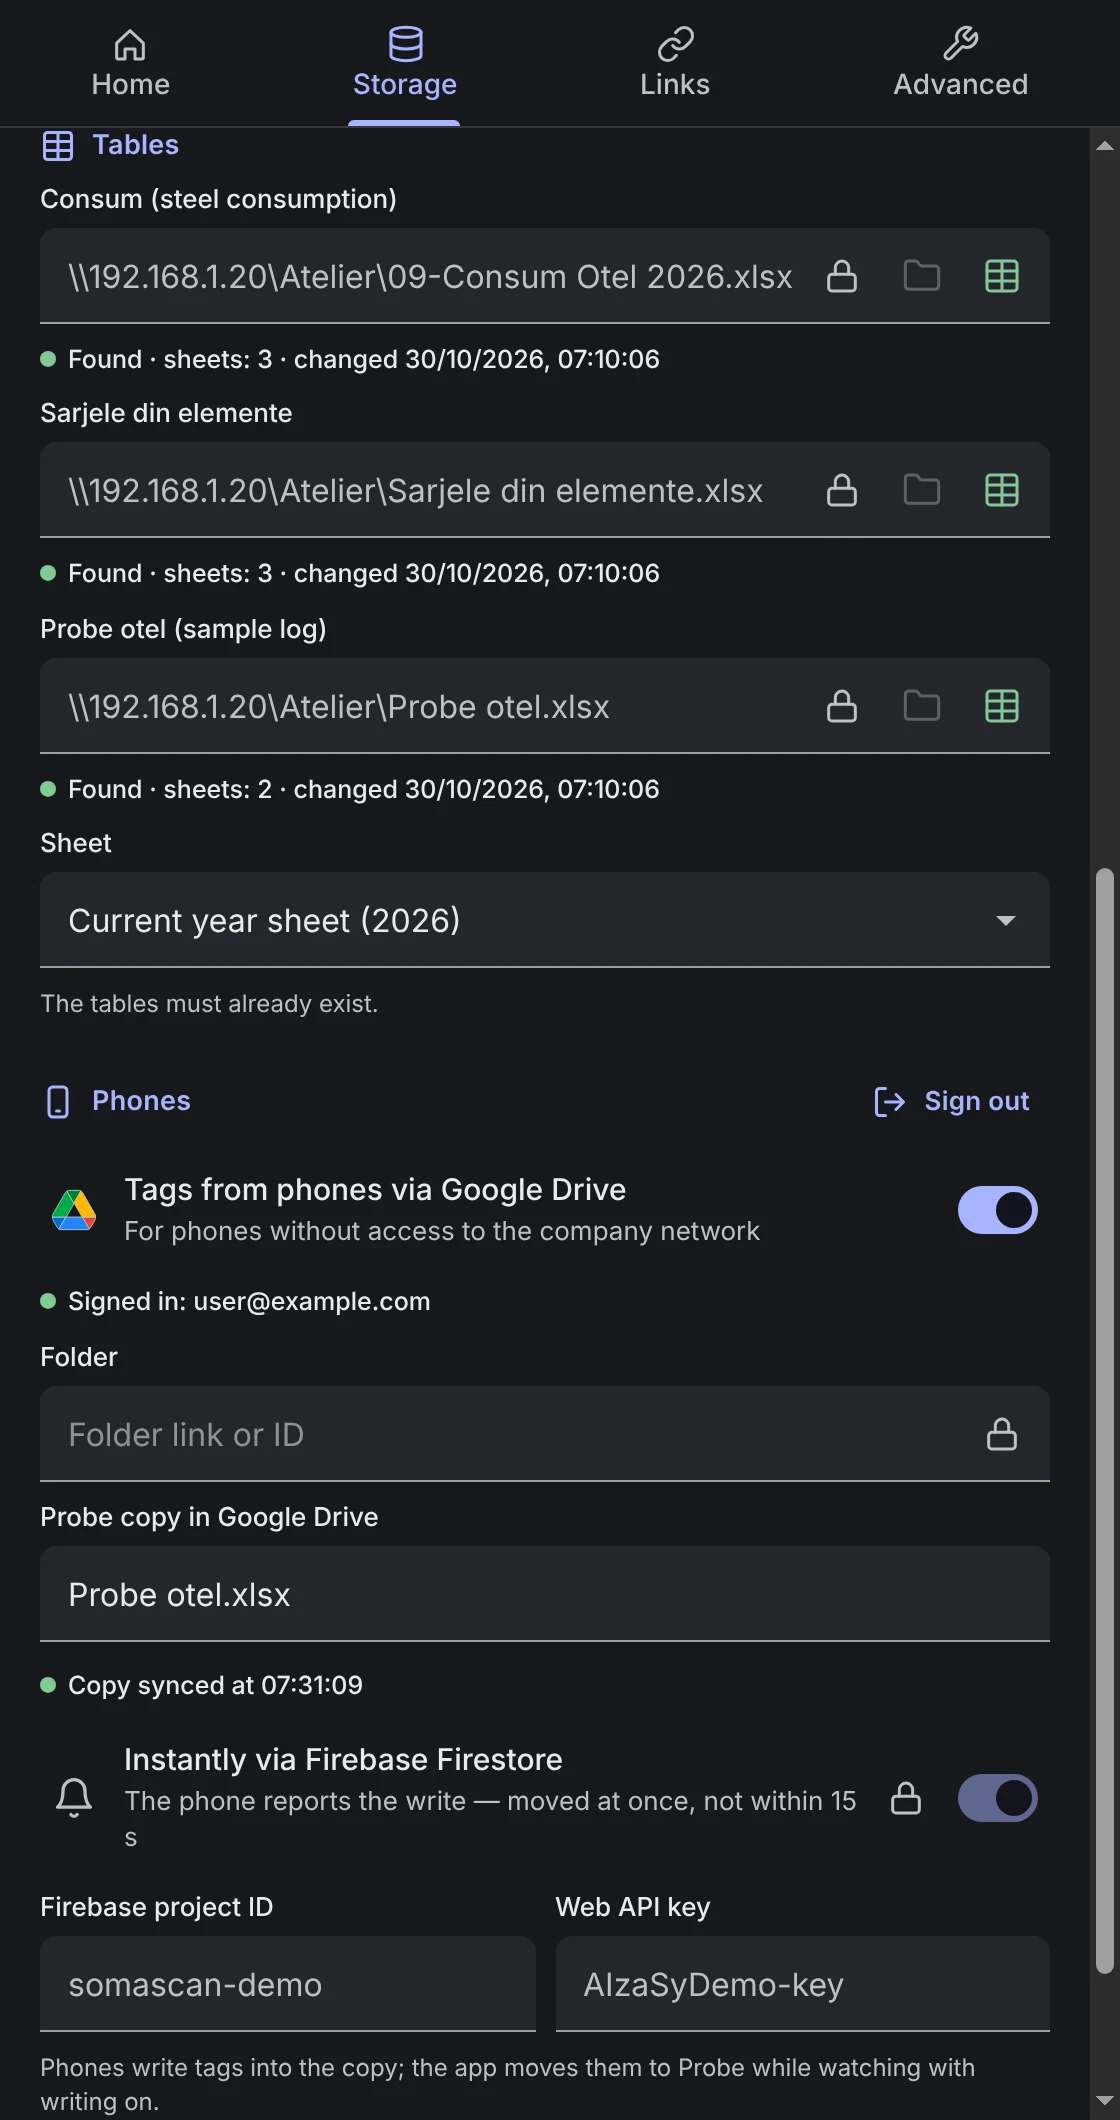
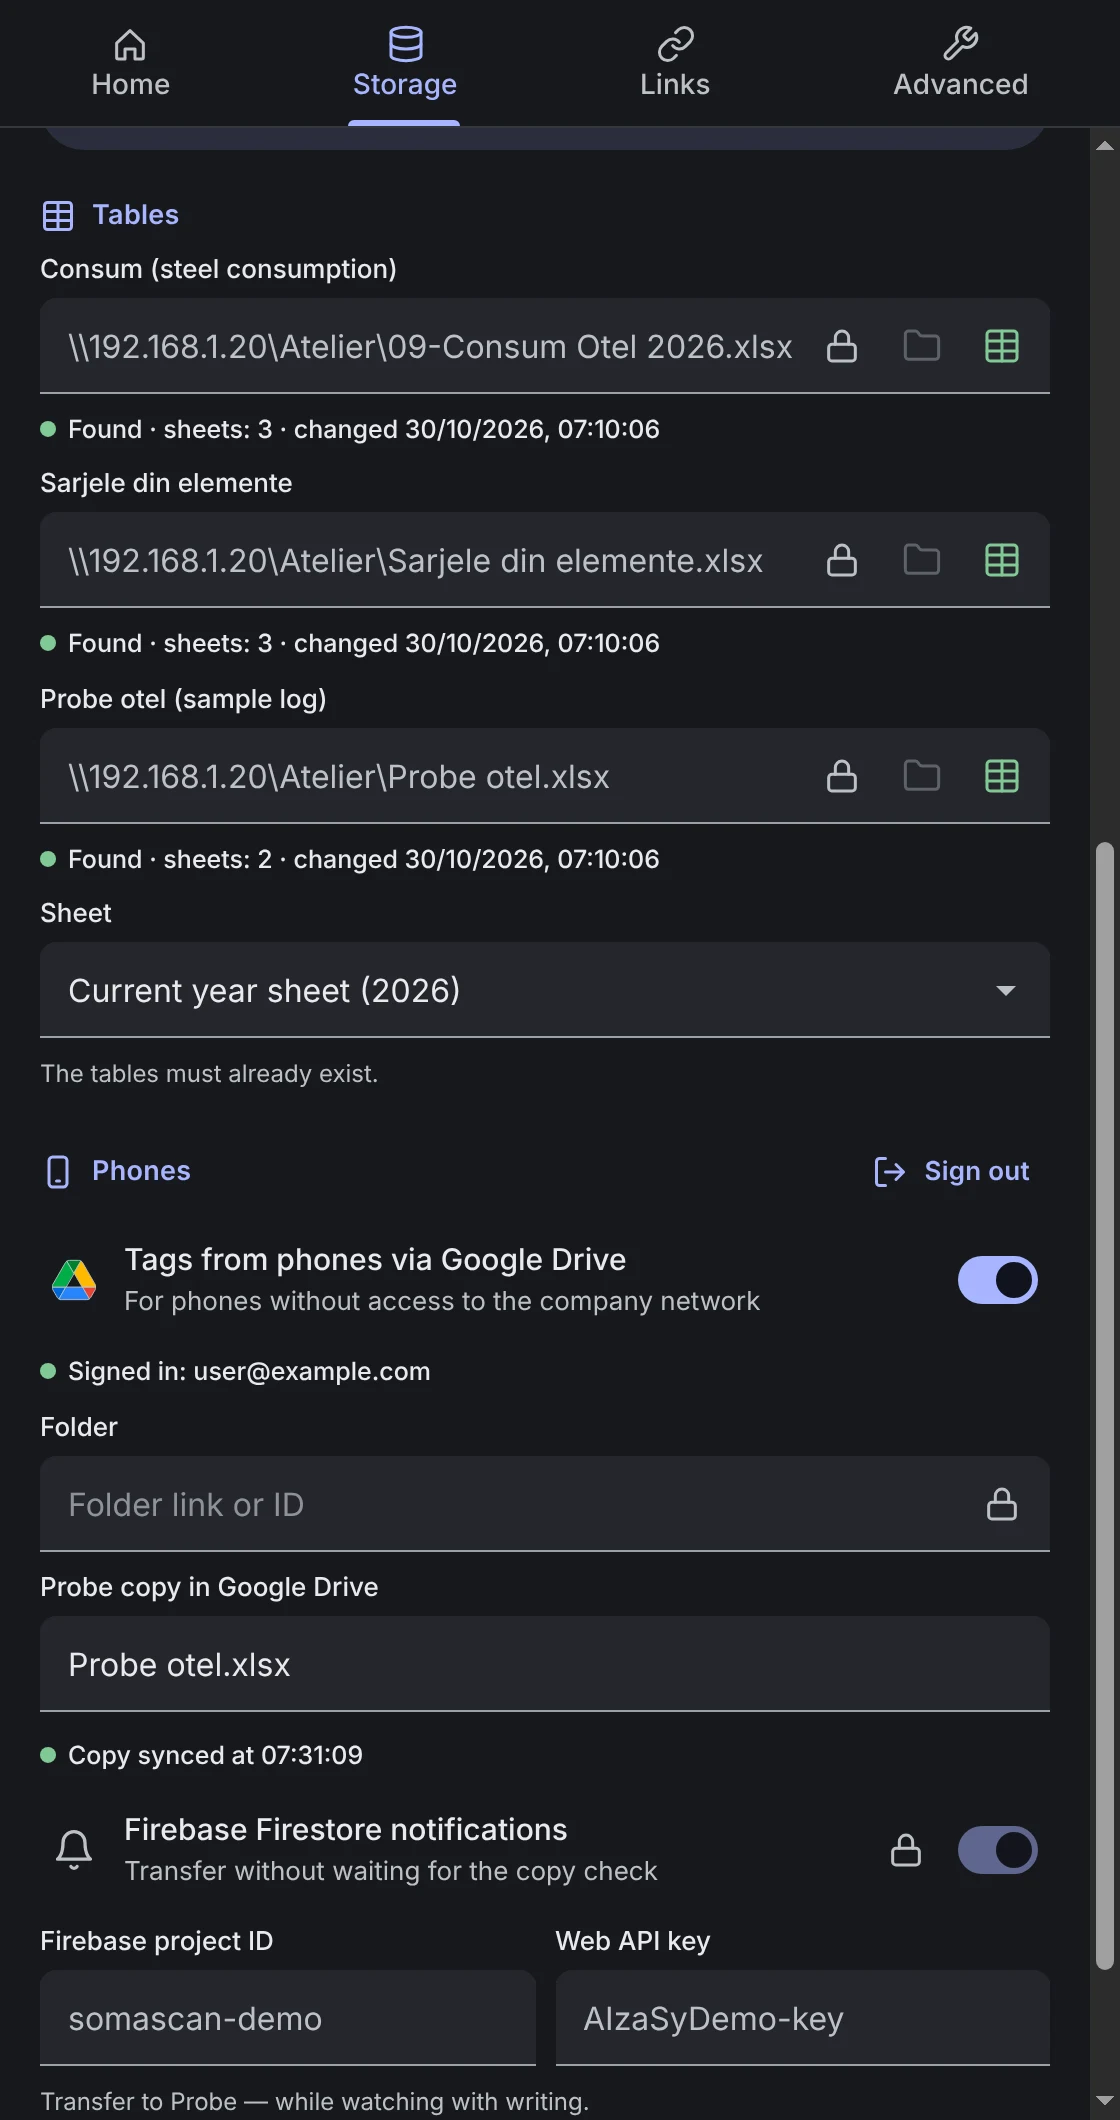
fix: + "Phones": formal one-line captions — "Firebase Firestore notifications", "Transfer without waiting for the copy check", "Firestore: connected", "Transfer postponed: Probe is open", "Transfer to Probe — while watching with writing."; journal messages in the same tone + i18n: en / ro / tj / ru 

diff --git a/README.md b/README.md
@@ -120,11 +120,11 @@ When the tables are on this computer or a network drive and the phones cannot re
 - **The phones changed the copy.** Under the lock `Probe otel.xlsx.lock` — the same one the phones set — the copy is downloaded and the engine appends to Probe the tags it does not have yet: by the hidden sheet `somascan-journal`, where the phone keeps the record number and the tag itself. The row is the one the phone would have written (`engine/lab/LabelWorkbook.ts` is taken from the mobile app): the sheet the phone wrote to (a new year's sheet is created), “Nr. Crt.” in Probe's order, arrival date — the write time on the phone. Then Probe is uploaded in place of the copy, and the phones see the fresh log. The app's journal shows a “Tags from phones” card.
 - **Only Probe changed** (an edit in Excel, filling heats) — Probe is uploaded in place of the copy without a run. No copy — it is created from Probe.
 - **Not moved.** The heat is already in Probe (each heat once), the sheet is not in Probe, a record of an older app version without the tag — the tag is skipped with the reason in the card; after Probe is uploaded it is gone from the copy.
-- **Probe is open in Excel.** The transfer waits and the copy is not replaced — otherwise the tags from phones would be lost. Under the section — “Tags from phones are waiting: close Probe”; once the file is closed they move by themselves.
+- **Probe is open in Excel.** The transfer waits and the copy is not replaced — otherwise the tags from phones would be lost. Under the section — “Transfer postponed: Probe is open”; once the file is closed the tags move by themselves.
 - **Safety.** Before Probe is replaced — a copy in `backups`, then the new workbook is checked before writing (all earlier values in place, moved tags in their rows); the copy's previous version in Drive goes to `backups` next to it. The synced state (copy MD5 and Probe's change time) is kept in `bridge.json`: no extra run after a restart.
-- **Instantly: Firebase Firestore** (optional, “Phones → Instantly via Firebase Firestore”, behind a lock). After writing into the copy the phone updates the document `somascan-bells/<channel>` in Firestore (the channel is the SHA-256 of “folder id/copy name”: the same on the phone and in the app with no extra setting). No data is kept in Firestore — only the notification: the document has one field, the time of the last ring. The app window listens to this document (`app/bellListener.ts`, the browser build of Firebase — Chromium networking with the system proxy) and starts a check at once: the transfer takes seconds instead of up to 15 s. Checking the copy stays as the fallback: a lost ring breaks nothing. Under the switch — “Listening to Firestore” or the error (it also goes to the journal).
+- **Instantly: Firebase Firestore** (optional, “Phones → Firebase Firestore notifications”, behind a lock). After writing into the copy the phone updates the document `somascan-bells/<channel>` in Firestore (the channel is the SHA-256 of “folder id/copy name”: the same on the phone and in the app with no extra setting). No data is kept in Firestore — only the notification: the document has one field, the time of the last ring. The app window listens to this document (`app/bellListener.ts`, the browser build of Firebase — Chromium networking with the system proxy) and starts a check at once: the transfer takes seconds instead of up to 15 s. Checking the copy stays as the fallback: a lost ring breaks nothing. Under the switch — “Firestore: connected” or the error (it also goes to the journal).
 
-**Firestore setup (once).** 1) In the [Firebase console](https://console.firebase.google.com/) add Firebase to the Google Cloud project (the one with the Google sign-in clients will do) or create a new one. 2) Firestore Database → create a database (Standard). 3) Rules — below: read the document by its exact channel and write only the ring time into it; channels cannot be listed. 4) “Project settings” → project ID and Web API key (no key — add a web app to the project). The Web API key is not a secret: the rules set the access. 5) Enter the ID and the key here and on the phones (“Settings → Storage → Google Drive → Firebase Firestore”). The Firestore free quota (50,000 reads and 20,000 writes a day) is more than enough.
+**Firestore setup (once).** 1) In the [Firebase console](https://console.firebase.google.com/) add Firebase to the Google Cloud project (the one with the Google sign-in clients will do) or create a new one. 2) Firestore Database → create a database (Standard). 3) Rules — below: read the document by its exact channel and write only the ring time into it; channels cannot be listed. 4) “Project settings” → project ID and Web API key (no key — add a web app to the project). The Web API key is not a secret: the rules set the access. 5) Enter the ID and the key here and on the phones (“Settings → Storage → Google Drive → Firebase Firestore → Somasync notification”). The Firestore free quota (50,000 reads and 20,000 writes a day) is more than enough.
 
 ```
 rules_version = '2';
@@ -344,7 +344,7 @@ Things that work but may break or let you down under certain conditions. In the 
 | Pause after a Consum change | `host/ConsumWatcher.ts` | on a slow network the engine may read a half-written file |
 | Network share password and Google key without system encryption | `host/SettingsStore.ts` | stored in `state.json` unencrypted |
 | A Google Drive table changed during a run | `host/drive/DriveMirror.ts` | not uploaded (a warning in the journal), the next run recalculates from the new version |
-| Probe is open in Excel all day | `host/PhoneBridge.ts` | tags from phones wait in the copy until the file is closed (a reminder under “Phones”) |
+| Probe is open in Excel all day | `host/PhoneBridge.ts` | tags from phones wait in the copy until the file is closed (“Transfer postponed: Probe is open” under “Phones”) |
 | A tag's year sheet comes from the phone's clock | `engine/lab/LabelWorkbook.ts` | with a wrong date on the phone the tag goes to the wrong sheet |
 | Writing a tag repeats the mobile app | `engine/lab/` | change together with `features/uploads/xlsx/` in main |
 
